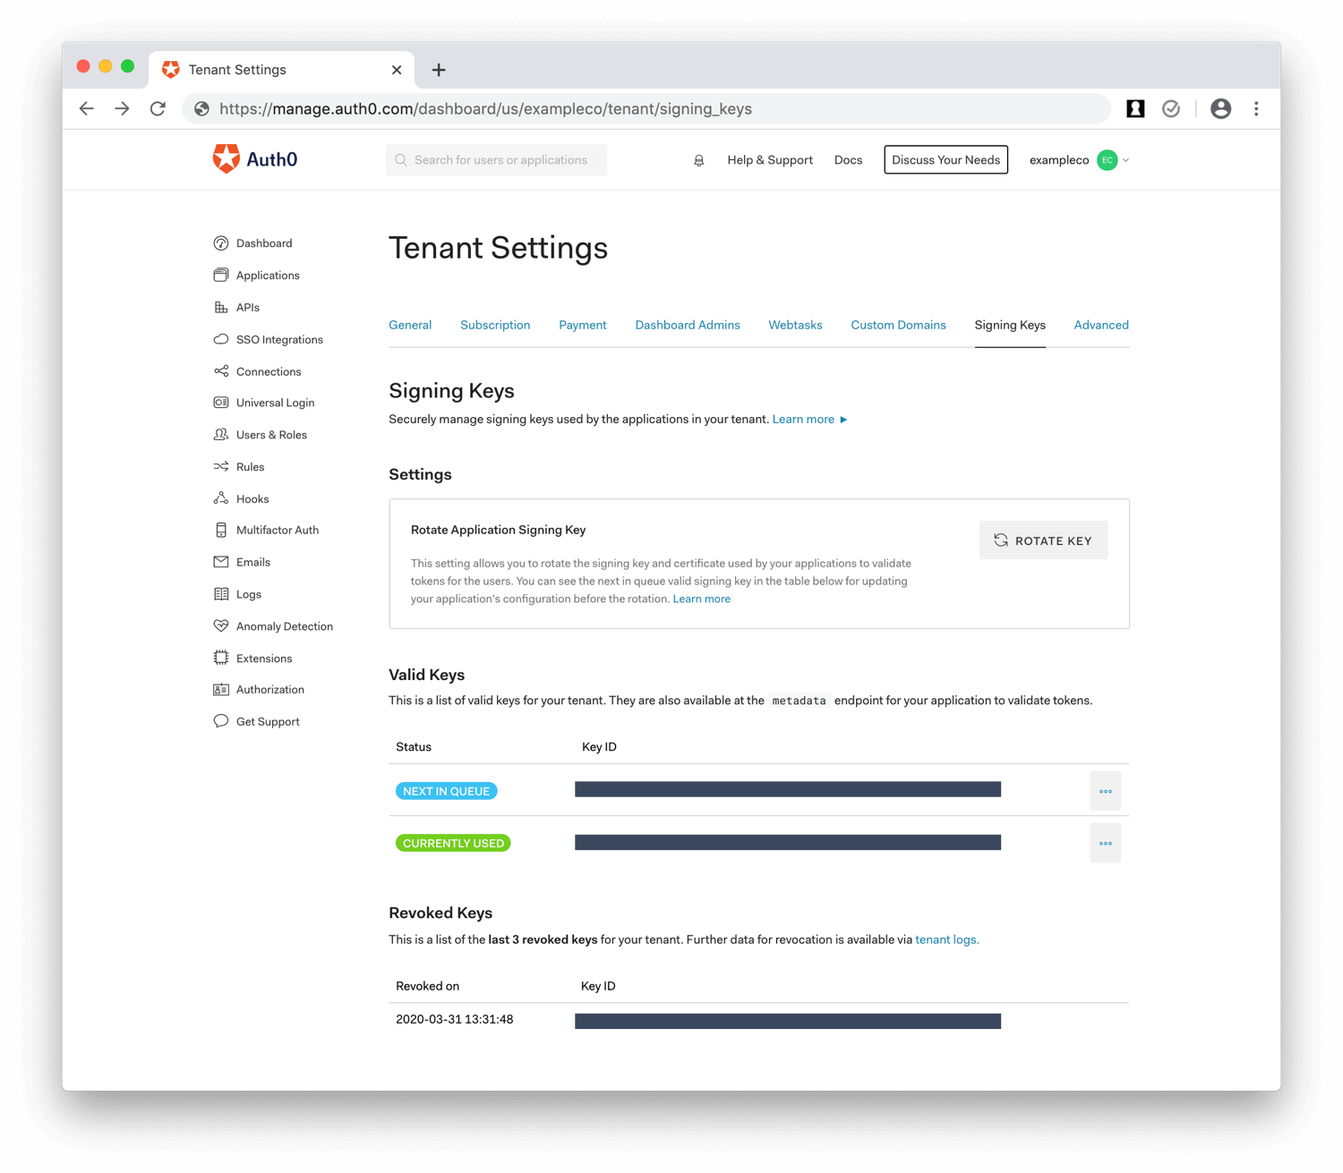
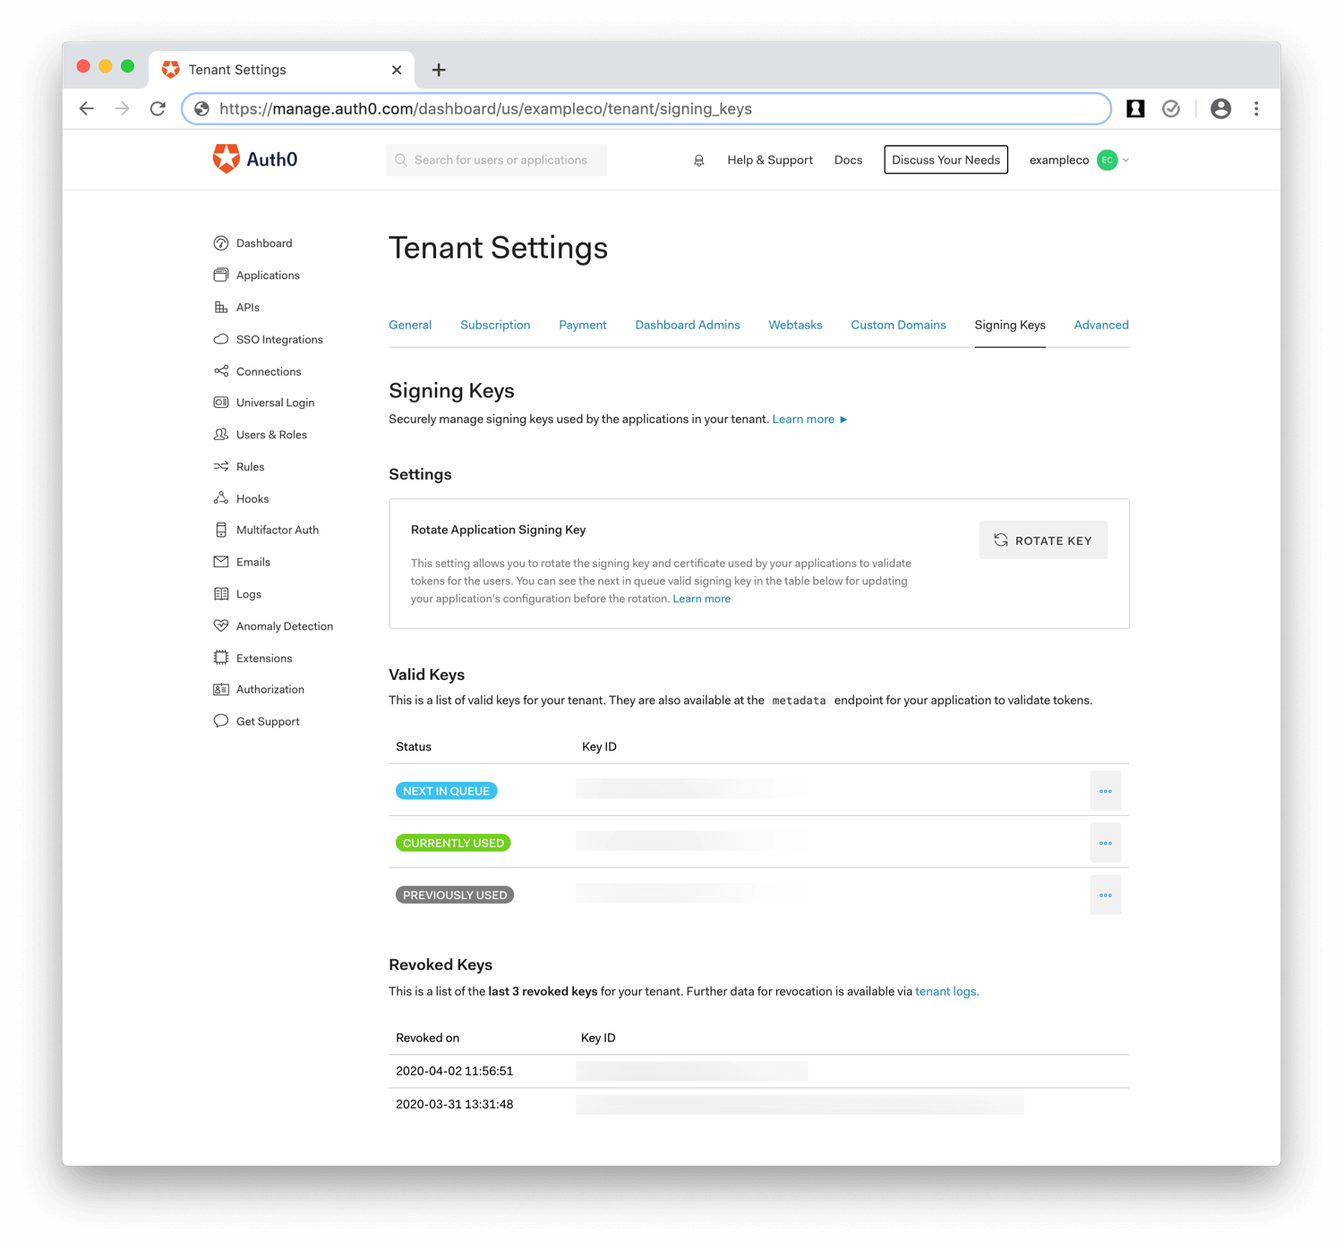
Edits after review

diff --git a/articles/tokens/guides/manage-application-signing-keys.md b/articles/tokens/guides/manage-application-signing-keys.md
@@ -1,5 +1,5 @@
 ---
-description: Learn how to manage your tenant's application signing key, which is used to sign ID Tokens, Access Tokens, SAML assertions and WS-Fed assertions that are sent to your application.
+description: Learn how to manage your tenant's application signing key, which is used to sign ID Tokens, Access Tokens, SAML assertions, and WS-Fed assertions that are sent to your application.
 topics:
   - tokens
   - access-tokens
@@ -20,7 +20,9 @@ useCase:
 
 When you select our recommended [signing algorithm](/tokens/concepts/signing-algorithms), (RS256), Auth0 uses public-key cryptography to establish trust with your applications. In more general terms, we use a signing key that consists of a public and private key pair.
 
-When a user signs in to your application, we create a token that contains information about the user and sign the token using its private key before we send it back to your application. To verify that the token is valid and originated from Auth0, your application validates the token’s signature using the public key that we expose in the following ways:
+When a user signs in to your application, we create a token that contains information about the user and sign the token using its private key before we send it back to your application. Auth0 secures the private key, which is unique per tenant.
+
+To verify that the token is valid and originated from Auth0, your application validates the token’s signature using the public key that we expose in the following ways:
 
 * your [tenant settings](/dashboard/reference/settings-tenant) in the Auth0 Dashboard
 * your tenant's [OpenID Connect discovery document](/tokens/guides/locate-jwks)
@@ -30,21 +32,33 @@ For security purposes, you may manually rotate your signing key on a periodic ba
 ::: note
 We use the application signing key to sign assertions that are sent to applications. These assertions may include ID Tokens, Access Tokens, SAML assertions, and WS-Fed assertions that are sent to your application. Note that these keys are different from those used to sign interactions with connections, including signing SAML Requests to IdPs and encrypting responses from IdPs.
 
-To learn more about signing keys for SAML connection assertions, see [SAML Identity Provider Configuration](/protocols/saml/samlp).
+By default, SAML assertions for IdP connections are signed, which we recommend. To get public keys you can use to configure the IdP, see [SAML Identity Provider Configuration: Signed Assertions](/protocols/saml/samlp#signed-assertions). 
 :::
+
+## Transition your application gracefully
+
+We have designed the rotation and revocation process to both support your personal preferences and promote a graceful transition for your application. If you prefer to update your application first, then rotate and revoke your key, you may do so. Alternatively, if you prefer to rotate your key, and then update your application and revoke your old key, you may do that as well.
+
+To that end, available keys include:
+
+* **Currently used**: Key that is currently being used to sign all new assertions.
+* **Previously used**: Key that was previously used, but has been rotated out. Assertions that were generated with this key will still work.
+* **Next in queue**: Key that is queued and will replace the current key owhen the application signing key is next rotated.
+
+Regardless of the method you use, you should always test on a development tenant before rotating application signing keys in production.
 
 ## Rotate your application signing key
 
 Auth0 allows you to manually rotate your signing key on a periodic basis. So, for security purposes, any application that integrates with Auth0 should be prepared to handle key rotation regardless of how infrequently it may occur. If your application does not handle signing key rotation and attempts to use an expired signing key to verify a token, the authentication request will fail.
 
-Your tenant's [OpenID Connect discovery document](/tokens/guides/locate-jwks) always contains more than one valid key. Specifically, it includes both the current key and the next key queued up for use whenever you choose to rotate your signing key. To provide a seamless experience in case of emergency, your application should be able to use any of the keys specified in the document.
+Your tenant's [OpenID Connect discovery document](/tokens/guides/locate-jwks) always contains multiple keys. Specifically, it will always include both the current key and the next key, but it may also include the previous key if the previous key has not yet been revoked. To provide a seamless experience in case of emergency, your application should be able to use any of the keys specified in the document.
 
 You can rotate your application signing key using either the Auth0 Dashboard or Management API. To learn more, see [Rotate Application Signing Keys](/dashboard/guides/tenants/rotate-application-signing-keys).
 
 ::: warning
-Make sure you have updated your application with the new key before you revoke the previous key.
-
 All tokens signed with the previous key will still be valid until the previous key is revoked.
+
+Make sure you have updated your application with the new key before you revoke the previous key.
 :::
 
 ## Manage your application signing keys
@@ -60,7 +74,7 @@ In addition, the Dashboard allows you to view, copy, and download the signing ce
 
 ### Limitations
 
-* Rotating your signing key will be subject to a smaller rate limit than other API endpoints. To learn more, see [Rate Limits](/policies/rate-limits).
+* Rotating your signing key will be subject to a smaller rate limit than other API endpoints. To learn more, see [Rate Limits: Management API v2](/policies/rate-limits#management-api-v2).
 
 ## Keep reading
 

diff --git a/articles/policies/rate-limits.md b/articles/policies/rate-limits.md
@@ -96,6 +96,7 @@ The following Auth0 Management API endpoints return rate limit-related headers. 
       <th><strong>POST</strong></th>
       <th><strong>DELETE</strong></th>
       <th><strong>PATCH</strong></th>
+      <th><strong>PUT</strong></th>
     </tr>
   </thead>
   <tbody>
@@ -105,6 +106,15 @@ The following Auth0 Management API endpoints return rate limit-related headers. 
       <td>/client-grants</td>
       <td>/client-grants/{id}</td>
       <td>/client-grants/{id}</td>
+      <td></td>
+  </tr>
+    <tr>
+    <td>Application Signing Keys</td>
+      <td>/keys/signing<br>/keys/signing/{id}</td>
+      <td>/keys/signing/rotate<br>Limited to 5 requests per day</td>
+      <td></td>
+      <td></td>
+      <td>/keys/signing/{kid}/revoke</td>
   </tr>
   <tr>
       <td>Applications</td>
@@ -112,6 +122,7 @@ The following Auth0 Management API endpoints return rate limit-related headers. 
       <td>/client</td>
       <td>/client/{id}</td>
       <td>/client/{id}</td>
+      <td></td>
   </tr>
   <tr>
       <td>Connections</td>
@@ -119,6 +130,7 @@ The following Auth0 Management API endpoints return rate limit-related headers. 
       <td>/connections</td>
       <td>/connections/{id} <br />/connections/{id}/users</td>
       <td>/connections/{id}</td>
+      <td></td>
   </tr>
   <tr>
       <td>Device Credentials</td>
@@ -126,10 +138,12 @@ The following Auth0 Management API endpoints return rate limit-related headers. 
       <td>/device-credentials</td>
       <td>/device-credentials/{id}</td>
       <td></td>
+      <td></td>
   </tr>
   <tr>
       <td>Logs</td>
       <td>/logs <br />/log/{id}</td>
+      <td></td>
       <td></td>
       <td></td>
       <td></td>
@@ -140,12 +154,14 @@ The following Auth0 Management API endpoints return rate limit-related headers. 
       <td>/rules</td>
       <td>/rules/{id}</td>
       <td>/rules/{id}</td>
+      <td></td>
   </tr>
   <tr>
       <td>User Blocks</td>
       <td>/user-blocks <br />/user-blocks/{id}</td>
       <td></td>
       <td>/user-blocks <br />/user-blocks/{id}</td>
+      <td></td>
       <td></td>
   </tr>
   <tr>
@@ -154,6 +170,7 @@ The following Auth0 Management API endpoints return rate limit-related headers. 
       <td>/users <br />/users/{id}/identities</td>
       <td>/users/{id} <br />/users/{id}/identities <br />/users/{id}/multifactor/{provider}</td>
       <td>/users/{id}</td>
+      <td></td>
   </tr>
   <tr>
       <td>Emails</td>
@@ -161,11 +178,13 @@ The following Auth0 Management API endpoints return rate limit-related headers. 
       <td>/emails/provider</td>
       <td></td>
       <td>/emails/provider</td>
+      <td></td>
   </tr>
   <tr>
       <td>Jobs</td>
       <td>/jobs/{id} <br /> /jobs/{id}/errors</td>
       <td>/jobs/verification-email <br />/jobs/users-imports <br />/jobs/users-exports</td>
+      <td></td>
       <td></td>
       <td></td>
   </tr>
@@ -175,10 +194,12 @@ The following Auth0 Management API endpoints return rate limit-related headers. 
       <td>/resource-servers</td>
       <td>/resource-servers/{id}</td>
       <td>/resource-servers/{id}</td>
+      <td></td>
   </tr>
   <tr>
       <td>Stats</td>
       <td>/stats/active-users <br />/stats/daily</td>
+      <td></td>
       <td></td>
       <td></td>
       <td></td>
@@ -189,6 +210,7 @@ The following Auth0 Management API endpoints return rate limit-related headers. 
       <td></td>
       <td></td>
       <td>/tenants/settings</td>
+      <td></td>
   </tr>
   </tbody>
 </table>

diff --git a/articles/dashboard/guides/tenants/revoke-application-signing-keys.md b/articles/dashboard/guides/tenants/revoke-application-signing-keys.md
@@ -1,6 +1,6 @@
 ---
 title: Revoke Application Signing Keys
-description: Learn how to revoke your tenant's application signing key using the Auth0 Dashboard and Auth0 Management API. Application signing keysmare used to sign ID Tokens, Access Tokens, SAML assertions and WS-Fed assertions that are sent to your application.
+description: Learn how to revoke your tenant's application signing key using the Auth0 Dashboard and Auth0 Management API. Application signing keys are used to sign ID Tokens, Access Tokens, SAML assertions, and WS-Fed assertions that are sent to your application.
 topics:
   - tokens
   - access-tokens
@@ -21,10 +21,12 @@ useCase:
 
 # Revoke Application Signing Keys
 
-This guide will show you how to revoke your tenant's application signing key using the Auth0 Dashboard and Auth0 Management API. The application signing key is used to sign tokens and SAML assertions.
+You can revoke your tenant's application signing key using the Auth0 Dashboard and Auth0 Management API. The application signing key is used to sign ID Tokens, Access Tokens, SAML assertions, and WS-Fed assertions sent to your application. To learn more, see [Manage Application Signing Keys](/tokens/guides/manage-application-signing-keys).
 
 ::: warning
-Rotating your application signing key will cause all your applications to require the signing key currently in queue for validating new tokens. All previously-validated tokens will still be valid with the previous key until the previous key is revoked.
+Before you can revoke a previously used application signing key, you must first have rotated the key. To learn how, see [Rotate Application Signing Keys](/dashboard/guides/tenants/rotate-application-signing-keys).
+
+Make sure you have updated your application with the new key before you revoke the previous key.
 :::
 
 <div class="code-picker">
@@ -41,15 +43,19 @@ Rotating your application signing key will cause all your applications to requir
 
 ![View Advanced Tenant Settings](/media/articles/dashboard/tenants/tenant-settings.png)
 
-2. Scroll to the **Settings** section, locate **Rotate Application Signing Key**, and click **Rotate Key**.
+2. Scroll to the **Valid Keys** section, locate the **Previously Used** key, click its more options (**...**) menu, and select **Revoke Key**.
 
-![View Signing Key Tenant Settings](/media/articles/dashboard/tenants/tenant-settings-signing-keys.png)
+![View Signing Key Tenant Settings](/media/articles/dashboard/tenants/tenant-settings-signing-keys-revoke.png)
 
-3. When asked to confirm, å, select the **Yes, revoke the currently used signing key** checkbox. Click **Rotate**.
+3. Confirm revocation by clicking **Revoke**.
 
-![Confirm Signing Key Rotation](/media/articles/dashboard/tenants/tenant-settings-signing-keys-rotate-confirm.png)
+![Confirm Revoking Signing Key](/media/articles/dashboard/tenants/tenant-settings-signing-keys-revoke-confirm.png)
     </div>
     <div id="mgmt-api" class="tab-pane">
+
+::: warning
+You may only revoke the previously used signing key.
+:::
 
 1. Make a `PUT` call to the [Revoke Signing Key endpoint](/api/management/v2#!/signing_keys/post_signing_key). Be sure to replace the `YOUR_KEY_ID` and `MGMT_API_ACCESS_TOKEN` placeholder values with your signing key's kid and Management API Access Token, respectively.
 

diff --git a/articles/dashboard/guides/tenants/rotate-application-signing-keys.md b/articles/dashboard/guides/tenants/rotate-application-signing-keys.md
@@ -1,6 +1,6 @@
 ---
 title: Rotate Application Signing Keys
-description: Learn how to rotate your tenant's application signing key using the Auth0 Dashboard and Auth0 Management API. Application signing keysmare used to sign ID Tokens, Access Tokens, SAML assertions and WS-Fed assertions that are sent to your application.
+description: Learn how to rotate your tenant's application signing key using the Auth0 Dashboard and Auth0 Management API. Application signing keys are used to sign ID Tokens, Access Tokens, SAML assertions, and WS-Fed assertions that are sent to your application.
 topics:
   - tokens
   - access-tokens
@@ -21,12 +21,10 @@ useCase:
 
 # Rotate Application Signing Keys
 
-This guide will show you how to rotate your tenant's application signing key using the Auth0 Dashboard and Auth0 Management API. The application signing key is used to sign ID Tokens, Access Tokens, SAML assertions, and WS-Fed assertions sent to your application.
+You can rotate your tenant's application signing key using the Auth0 Dashboard and Auth0 Management API. The application signing key is used to sign ID Tokens, Access Tokens, SAML assertions, and WS-Fed assertions sent to your application. To learn more, see [Manage Application Signing Keys](/tokens/guides/manage-application-signing-keys).
 
 ::: warning
-Make sure you have updated your application with the new key before you revoke the previous key.
-
-All tokens signed with the previous key will still be valid until the previous key is revoked.
+To allow you time to update your application with the new key, all tokens signed with the previous key will still be valid until you revoke the previous key. To learn more, see [Revoke Application Signing Keys](/dashboard/guides/tenants/revoke-application-signing-keys).
 :::
 
 <div class="code-picker">
@@ -47,7 +45,7 @@ All tokens signed with the previous key will still be valid until the previous k
 
 ![View Signing Key Tenant Settings](/media/articles/dashboard/tenants/tenant-settings-signing-keys.png)
 
-3. When asked to confirm, if you have already updated certificates and signing keys in all of your applications, select the **Yes, revoke the currently used signing key** checkbox, and click **Rotate**.
+3. Confirm rotation by clicking **Rotate**.
 
 ![Confirm Signing Key Rotation](/media/articles/dashboard/tenants/tenant-settings-signing-keys-rotate-confirm.png)
     </div>

diff --git a/articles/protocols/saml/samlp.md b/articles/protocols/saml/samlp.md
@@ -12,9 +12,9 @@ useCase:
 
 # SAML Identity Provider Configuration
 
-## Common settings:
+## Common settings
 
-These are the parameters used to configure a <dfn data-key="security-assertion-markup-language">SAML</dfn> Identity Provider:
+These are the parameters used to configure a <dfn data-key="security-assertion-markup-language">SAML</dfn> Identity Provider (IdP):
 
 * The __post-back URL__ (also called __Assertion Consumer Service URL__) is: `https://${account.namespace}/login/callback?connection=YOUR_CONNECTION_NAME`
 * The __Entity ID__ of the Service Provider is: `urn:auth0:${account.tenant}:YOUR_CONNECTION_NAME` (default value). Use `connection.options.entityId` if available. You can obtain this value using the [Get a connection by its id APIv2 endpoint](/api/management/v2#!/Connections/get_connections_by_id):
@@ -51,9 +51,11 @@ If dynamically setting the value isn't possible, then set as either `HTTP-Redire
 * The SAML assertion, and the SAML response can be individually or simultaneously signed.
 * The __SingleLogout service URL__, where the SAML Identity Provider will send logout requests and responses, is: `https://${account.namespace}/logout`. SAML logout requests must be signed by the Identity Provider.
 
-## Encrypted assertions:
+## Signed assertions
 
-Optionally, assertions can be encrypted. Use this public key to configure the IdP: [CER](https://${account.namespace}/cer?cert=connection) | [PEM](https://${account.namespace}/pem?cert=connection) | [raw PEM](https://${account.namespace}/rawpem?cert=connection) | [PKCS#7](https://${account.namespace}/pb7?cert=connection) | [Fingerprint](https://${account.namespace}/fingerprint?cert=connection)
+By default, SAML assertions for IdP connections are signed, which we recommend. You can use the following public keys to configure the IdP: 
+
+[CER](https://${account.namespace}/cer?cert=connection) | [PEM](https://${account.namespace}/pem?cert=connection) | [raw PEM](https://${account.namespace}/rawpem?cert=connection) | [PKCS#7](https://${account.namespace}/pb7?cert=connection) | [Fingerprint](https://${account.namespace}/fingerprint?cert=connection)
 
 ## IdP-initiated Single Sign-on
 

diff --git a/articles/dashboard/reference/settings-tenant.md b/articles/dashboard/reference/settings-tenant.md
@@ -82,13 +82,16 @@ Custom domains are not available for free plans. To configure a custom domain, y
 
 ## Signing Keys
 
-The **Signing Keys** tab allows you to securely manage the signing key and certificate used by your applications to validate tokens for users.
+The **Signing Keys** tab allows you to securely manage the signing key and certificate used to sign ID Tokens, Access Tokens, SAML assertions, and WS-Fed assertions that are sent to your applications.
 
 ![Signing Key Tenant Settings](/media/articles/dashboard/tenants/tenant-settings-signing-keys.png)
 
-**Rotate Application Signing Key**: Setting that allows you to rotate the signing key and certificate used by your applications to validate tokens for users. To learn more, see [Manage Application Signing Key](/tokens/guides/manage-application-signing-key).
+**Rotate Application Signing Key**: Setting that allows you to rotate the signing key and certificate. To learn more, see [Manage Application Signing Key](/tokens/guides/manage-application-signing-keys).
 
-**Valid Keys**: List of valid keys for your tenant, which are also available at the metadata endpoint for your application to validate tokens. Valid keys include the current key in use and the next key in the queue when you choose to rotate your signing key.
+**Valid Keys**: List of valid keys for your tenant, which are also available at the metadata endpoint for your application. Valid keys include:
+  * **Next in queue**: Key that will be used when the application signing key is next rotated.
+  * **Currently used**: Key that is currently in use.
+  * **Previously used**: Key that was previously used. Its appearance indicates that the application signing key has been rotated, but the previously used key has not yet been revoked.
 
 **Revoked Keys**: List of the last three revoked keys for your tenant. More data about revoked keys is available via tenant logs.
 

diff --git a/articles/_includes/_create_resource_server.md b/articles/_includes/_create_resource_server.md
@@ -1,6 +1,6 @@
 ## Create the API
 
-Your resource server (API) needs to be configured to verify the Access Token and any claims contained within it. When you create a resource server in your Auth0 dashboard, it utilizes the RS256 signature method by default, meaning that Access Tokens are signed using Auth0's private key for your account. Verification is done using the corresponding public key. You can read more about the [JSON Web Key Set (JWKS)](/tokens/concepts/jwks) standard and also view the [public key(s)](https://${account.namespace}/.well-known/jwks.json) for your Auth0 account (https://${account.namespace}/.well-known/jwks.json). You can also learn how to [manage your public key](/tokens/guides/manage-application-signing-key).
+Your resource server (API) needs to be configured to verify the Access Token and any claims contained within it. When you create a resource server in your Auth0 dashboard, it utilizes the RS256 signature method by default, meaning that Access Tokens are signed using Auth0's private key for your account. Verification is done using the corresponding public key. You can read more about the [JSON Web Key Set (JWKS)](/tokens/concepts/jwks) standard and also view the [public key(s)](https://${account.namespace}/.well-known/jwks.json) for your Auth0 account (https://${account.namespace}/.well-known/jwks.json). You can also learn how to [manage your public key](/tokens/guides/manage-application-signing-keys).
 
 You can use any [recommended JWT library](https://jwt.io) to validate the standard claims returned in the token. The following example will demonstrate how to create a resource server API with Node. You can find more information about resource server implementations in the [Access Token documentation](https://auth0.com/docs/api-auth/config/asking-for-access-tokens).
 

diff --git a/articles/dashboard/guides/tenants/view-application-signing-keys.md b/articles/dashboard/guides/tenants/view-application-signing-keys.md
@@ -1,6 +1,6 @@
 ---
 title: View Application Signing Keys
-description: Learn how to view your tenant's application signing keys using the Auth0 Dashboard and Auth0 Management API. Application signing keysmare used to sign ID Tokens, Access Tokens, SAML assertions and WS-Fed assertions that are sent to your application.
+description: Learn how to view your tenant's application signing keys using the Auth0 Dashboard and Auth0 Management API. Application signing keys are used to sign ID Tokens, Access Tokens, SAML assertions, and WS-Fed assertions that are sent to your application.
 topics:
   - tokens
   - access-tokens
@@ -21,7 +21,13 @@ useCase:
 
 # View Application Signing Keys
 
-This guide will show you how to view your tenant's application signing keys using the Auth0 Dashboard and Auth0 Management API. The application signing key is used to sign tokens and SAML assertions.
+You can view your tenant's application signing keys using the Auth0 Dashboard and Auth0 Management API. The application signing key is used to sign ID Tokens, Access Tokens, SAML assertions, and WS-Fed assertions sent to your application. To learn more, see [Manage Application Signing Keys](/tokens/guides/manage-application-signing-keys).
+
+::: note
+Note that these keys are different from those used to sign interactions with connections, including signing SAML Requests to IdPs and encrypting responses from IdPs.
+
+By default, SAML assertions for IdP connections are signed, which we recommend. To learn more, see [SAML Identity Provider Configuration: Signed Assertions](/protocols/saml/samlp#signed-assertions). 
+:::
 
 <div class="code-picker">
   <div class="languages-bar">

diff --git a/articles/tokens/concepts/jwks.md b/articles/tokens/concepts/jwks.md
@@ -28,7 +28,7 @@ Auth0 uses the [JSON Web Key (JWK) specification](https://tools.ietf.org/html/rf
 Auth0 exposes a JWKS endpoint for each tenant, which is found at `https://${account.namespace}/.well-known/jwks.json`. This endpoint will contain the JWK used to sign all Auth0-issued JWTs for this tenant.
 
 ::: note
-Currently, Auth0 only supports a single JWK for signing; however, it is important to assume this endpoint could contain multiple JWKs. As an example, multiple keys can be found in the JWKS when [rotating application signing keys](/tokens/guides/manage-application-signing-key).
+Currently, Auth0 only supports a single JWK for signing; however, it is important to assume this endpoint could contain multiple JWKs. As an example, multiple keys can be found in the JWKS when [rotating application signing keys](/tokens/guides/manage-application-signing-keys).
 :::
 
 ## Keep reading
